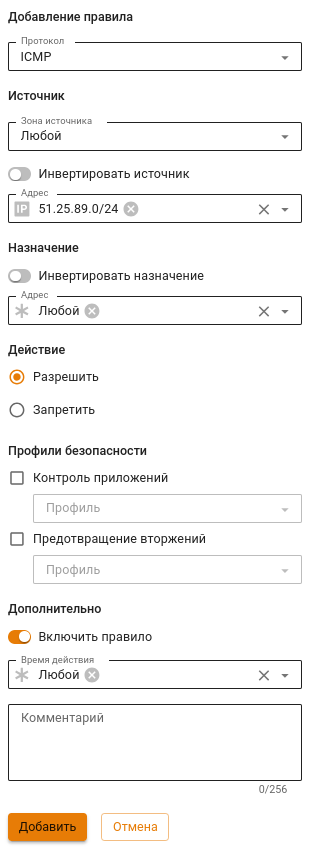
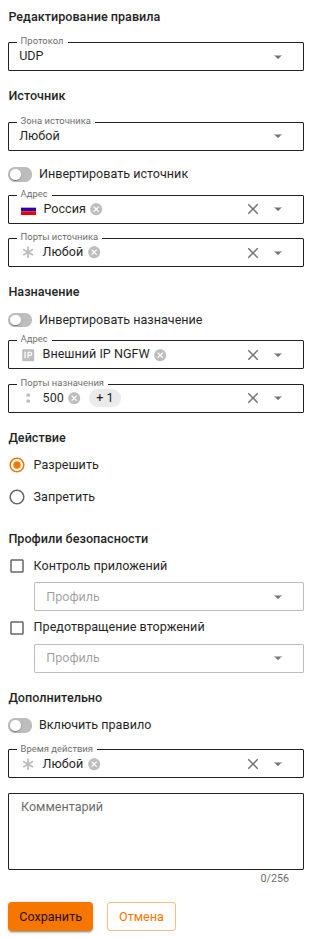
ICS-46612 УТМ. Актуализировать примеры в статье Примеры создания правил файрвола

Changed region(s): [[0.0, 0.0, 0.9808, 1.0], [0.9519, 0.6132, 0.9808, 0.6439], [0.9231, 0.5825, 0.9519, 0.6132]]

diff --git a/settings/access-rules/firewall-examples.md b/settings/access-rules/firewall-examples.md
@@ -24,7 +24,7 @@ description: >-
 
 <summary>Блокировка различных ресурсов средствами файрвола</summary>
 
-Вопросы блокировки ресурсов: программ удаленного управления (AmmyAdmin и TeamViewer), мессенджеров и другого ПО - описаны в статье [Блокировка популярных ресурсов](/recipes/popular-recipes/blocking-popular-resources.md).
+Вопросы блокировки программ удаленного управления (AmmyAdmin и TeamViewer), мессенджеров и другого ПО - описаны в статье [Блокировка популярных ресурсов](/recipes/popular-recipes/blocking-popular-resources.md).
 
 </details>
 
@@ -80,21 +80,40 @@ description: >-
 
 <details>
 
-<summary>Разрешение DNS-запросов</summary>
+<summary>Разрешение DNS-запросов через внешние DNS</summary>
 
-1\. Перейдите на вкладку **Правила трафика -> Файрвол -> FORWARD**.
+**ВАЖНО:** **Рекомендуем использовать в качестве DNS-сервер Ideco NGFW.** Но если необходимо использовать внешний DNS-сервер, то выполните действия:
+ 
+1\. На вкладке **Защита и управление DNS -> [Внешние DNS](https://docs.ideco.ru/settings/services/dns/dns-external)** выключите **Перехват пользовательских DNS-запросов**.
 
-2\. Создайте правило, заполнив поля, как на скриншоте, и включите его:
+2\. Добавьте внешний DNS-сервер.
+
+3\. Перейдите на вкладку **Правила трафика -> Файрвол -> FORWARD**.
+
+4\. Создайте правило **Запретить все** и включите его.
+
+5\. Создайте правило, заполнив поля:
 
 ![](/.gitbook/assets/firewall25.png)
 
-**Для работы протокола DNS может быть недостаточно правила с протоколом UDP, поскольку DNS использует в качестве транспорта не только UDP, но и TCP**. Для решения задачи создайте аналогичное правило с протоколом TCP, используя кнопку **Клонировать** в таблице правил.
+* **Протокол** - выберите UDP;
+* **Назначение**:
+  * **Адрес** - укажите IP-адрес внешнего DNS-сервера;
+  * **Порт назначения** - укажите порт 53;
+* **Действие** - Разрешить;
+* **Дополнительно** - включите правило.
+
+**Для работы протокола DNS может быть недостаточно правила с протоколом UDP, поскольку DNS использует в качестве транспорта UDP и TCP**. Для решения задачи создайте аналогичное правило с протоколом TCP, используя кнопку **Клонировать** в таблице правил.
 
 </details>
 
 <details>
 
-<summary>Доступ до Ideco NGFW только из определенной внешней сетей</summary>
+<summary>Доступ до Ideco NGFW только из определенной внешней сети по IKEv2/IPsec</summary>
+
+Пример: нужно разрешить доступ до Ideco NGFW из России по VPN через IKEv2/IPsec.
+
+**ВАЖНО:** Правило актуально, если на вкладке **INPUT** есть правило **Запретить все**.
 
 1\. Перейдите на вкладку **Правила трафика -> Файрвол -> INPUT**.
 
@@ -102,7 +121,14 @@ description: >-
 
 ![](/.gitbook/assets/firewall26.png)
 
-**Правило разрешит трафик до Ideco NGFW из внешней сети 51.25.89.0/24**.
+* **Протокол** - выберите UDP;
+* **Источник**:
+  * **Адрес** - выберите страну Россия;
+* **Назначение**:
+  * **Адрес** - укажите внешний IP-адрес Ideco NGFW;
+  * **Порт назначения** - укажите порты 500 и 4500;
+* **Действие** - Разрешить;
+* **Дополнительно** - включите правило.
 
 </details>
 
